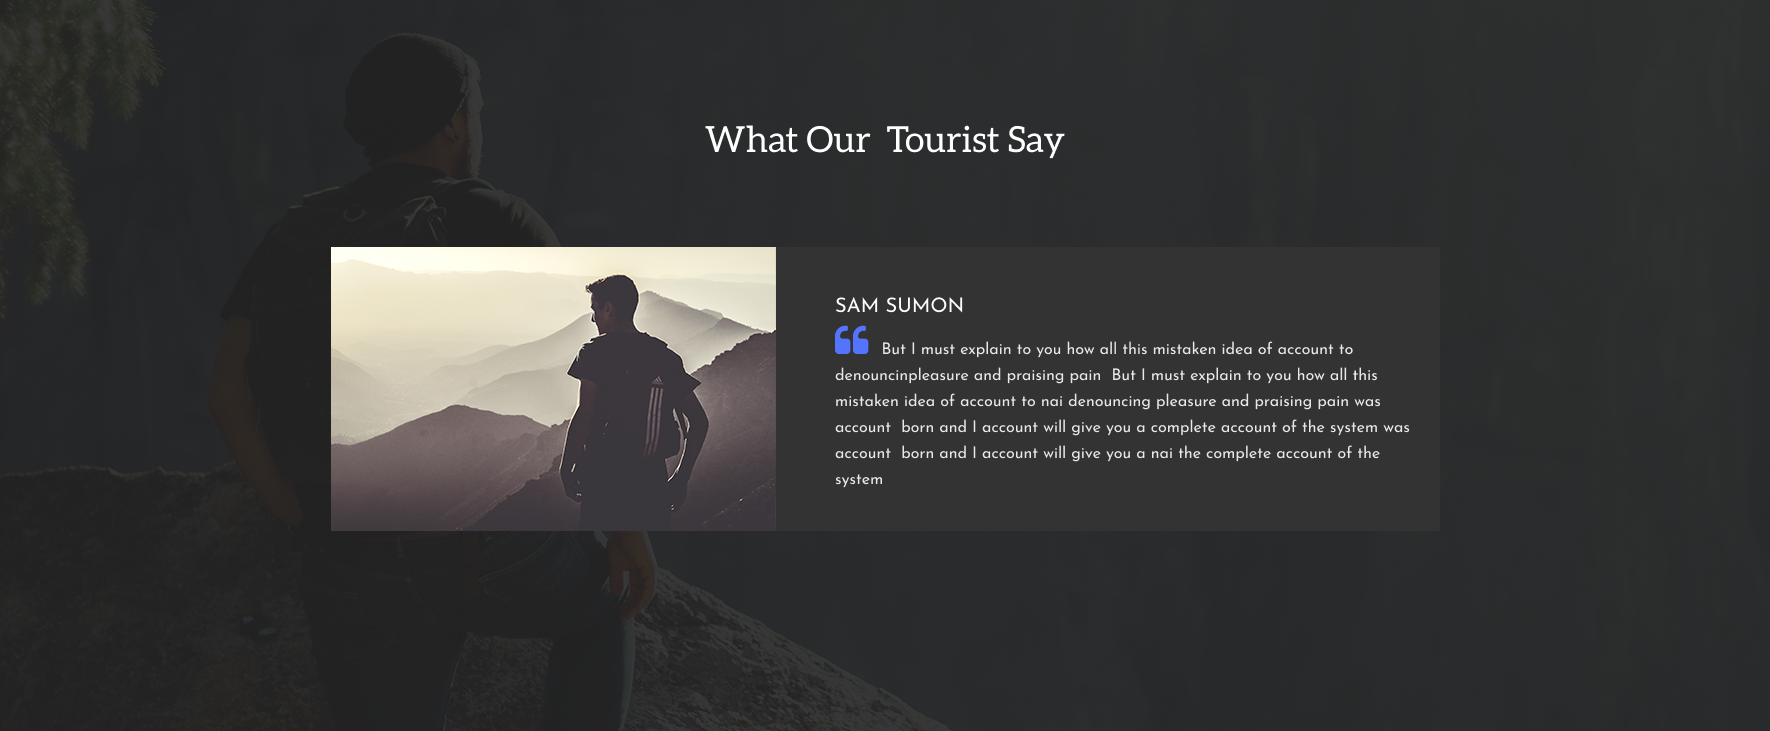
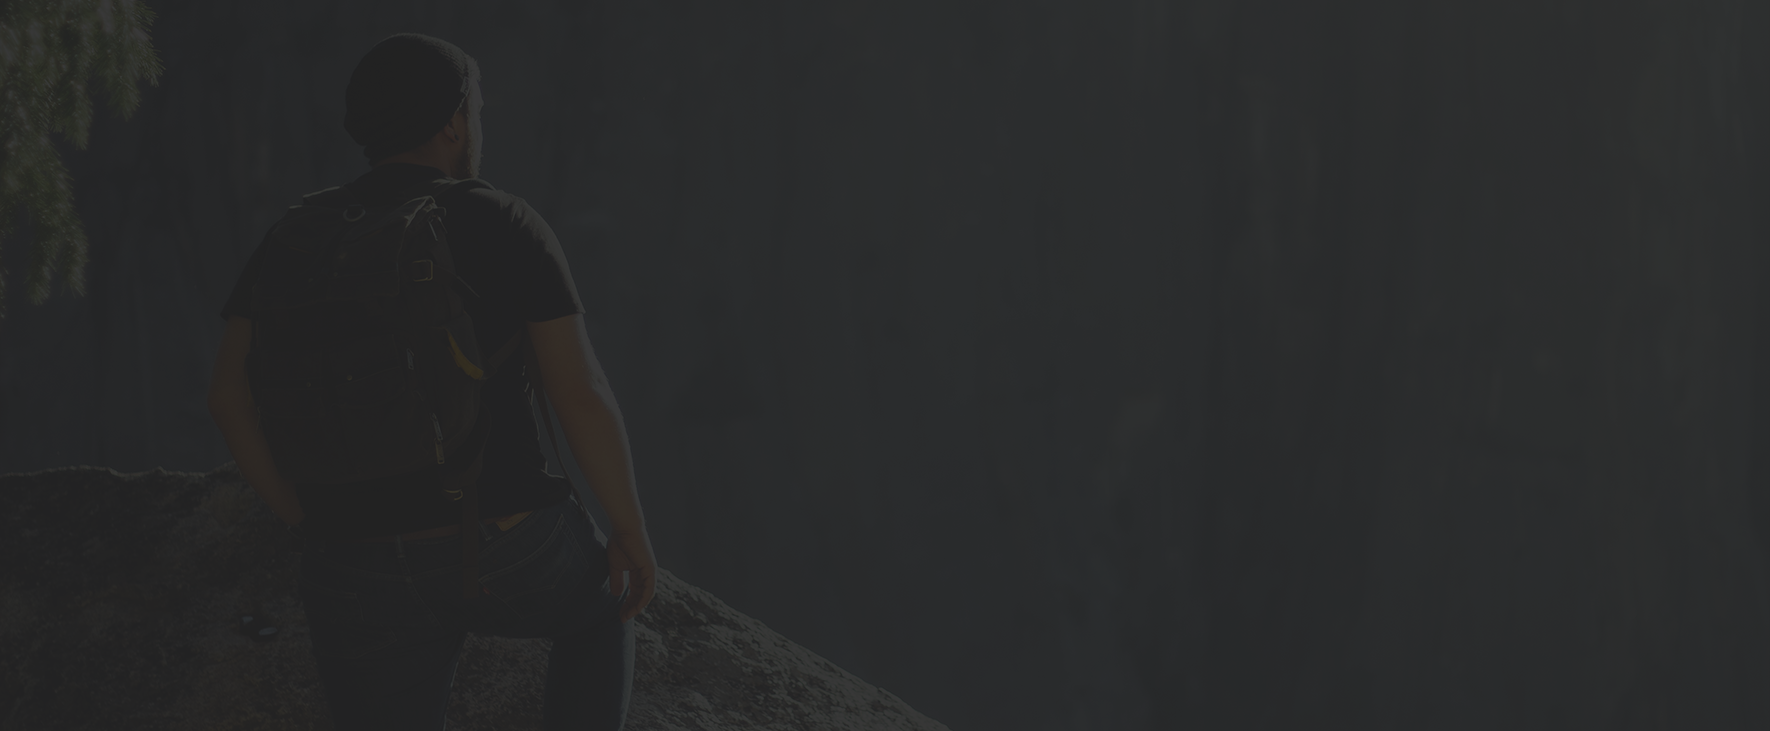
Add the Testimonial section and make it responsive

Changed region(s): [[0.1864, 0.3311, 0.8079, 0.7524], [0.404, 0.1806, 0.6215, 0.2107]]

diff --git a/index.html b/index.html
@@ -34,7 +34,9 @@
     >
       <div>
         <h1 class="fnt-s-4 fw-bold text-uppercase">Bhromaon</h1>
-        <h3 class="fnt-s-2 m-top-1">Safe Travel Anywhere</h3>
+        <h3 class="fnt-s-2 m-top-1 header-second-heading">
+          Safe Travel Anywhere
+        </h3>
         <div class="search-wrapper m-top-3 d-flex justify-content-center">
           <input id="search-field" class="search-field" type="text" />
           <label for="search-field" class="d-none"></label>
@@ -57,7 +59,6 @@
           class="scroll-down-icon d-block fnt-s-1 m-top-1"
         />
       </div>
-
       <nav class="navbar position-sticky">
         <ul class="d-flex justify-content-evenly align-items-center w-100">
           <li class="text-uppercase fw-bold fnt-s-3">Bhromaon</li>
@@ -172,6 +173,35 @@
           >
             Book now
           </button>
+        </div>
+      </section>
+      <section id="testimony-section" class="testimony-section section-style">
+        <h2 class="fnt-s-4 secondaryFontFamily text-center">
+          What Our Tourist Say
+        </h2>
+        <div
+          class="testimonial-wrapper d-flex justify-content-center align-items-center"
+        >
+          <img
+            src="./images/img/testimonial-content-img.png"
+            alt="A man in the mountains"
+            class="testimony-img"
+          />
+          <div class="testimonial-description-wrapper">
+            <h3 class="text-uppercase fnt-s-2">Sam Sumon</h3>
+            <p class="lh-base">
+              <i
+                class="fa-solid fa-quote-left fnt-s-4 me-2"
+                style="color: #5474fd"
+              ></i>
+              But I must explain to you how all this mistaken idea of account to
+              denouncinpleasure and praising pain But I must explain to you how
+              all this mistaken idea of account to nai denouncing pleasure and
+              praising pain was account born and I account will give you a
+              complete account of the system was account born and I account will
+              give you a nai the complete account of the system
+            </p>
+          </div>
         </div>
       </section>
     </main>

diff --git a/css/main.css b/css/main.css
@@ -4,6 +4,10 @@
   padding-top: 190px;
 }
 
+.header-second-heading {
+  letter-spacing: 5px;
+}
+
 .search-field {
   height: 64px;
   width: 50%;
@@ -129,6 +133,26 @@
   height: max-content;
 }
 
+/*TESTIMONY*/
+.testimony-section {
+  background-image: url(../images/img/testimonial.png);
+  padding: 100px 20px 0 20px;
+}
+
+.testimony-img {
+  display: none;
+}
+
+.testimonial-wrapper {
+  margin-top: 20px;
+}
+
+.testimonial-description-wrapper {
+  padding: 20px;
+  background-color: #232323;
+  max-width: 670px;
+}
+
 @media only screen and (min-width: 650px) {
   /*FIRST & SECOND PLACE SPAIN*/
   .first-place-section {
@@ -136,6 +160,10 @@
   }
   .second-place-section {
     padding-right: 50px;
+  }
+  /*TESTIMONY*/
+  .testimonial-description-wrapper {
+    padding: 50px 25px 40px 60px;
   }
 }
 @media only screen and (min-width: 800px) {
@@ -196,10 +224,27 @@
   .second-place-section {
     padding-right: 150px;
   }
+  .testimonial-wrapper {
+    margin-top: 90px;
+  }
+}
+@media only screen and (min-width: 1000px) {
+  .testimony-img {
+    display: inline;
+    max-width: 455px;
+  }
+  .testimonial-description-wrapper {
+    height: 284px;
+  }
 }
 @media only screen and (min-width: 1500px) {
+  .home-header {
+    background-image: url(../images/img/hero.png);
+    padding-top: 290px;
+  }
   .why-choose-us-section {
-    padding: 0 330px;
+    padding: 0 340px;
+    gap: 100px;
   }
   .how-it-works-section {
     padding-top: 170px;
@@ -207,7 +252,6 @@
   .how-it-works-lines {
     bottom: 55%;
   }
-  /*FIRST & SECOND PLACE SPAIN*/
   .first-place-section {
     padding-left: 300px;
   }

diff --git a/css/main.scss b/css/main.scss
@@ -18,6 +18,10 @@
   padding-top: 190px;
 }
 
+.header-second-heading {
+  letter-spacing: 5px;
+}
+
 .search-field {
   height: 64px;
   width: 50%;
@@ -134,6 +138,26 @@
   height: max-content;
 }
 
+/*TESTIMONY*/
+.testimony-section {
+  background-image: url(../images/img/testimonial.png);
+  padding: 100px 20px 0 20px;
+}
+
+.testimony-img {
+  display: none;
+}
+
+.testimonial-wrapper {
+  margin-top: 20px;
+}
+
+.testimonial-description-wrapper {
+  padding: 20px;
+  background-color: variables.$secondaryBgColor;
+  max-width: 670px;
+}
+
 @media only screen and (min-width: 650px) {
   /*FIRST & SECOND PLACE SPAIN*/
   .first-place-section {
@@ -142,6 +166,11 @@
 
   .second-place-section {
     padding-right: 50px;
+  }
+
+  /*TESTIMONY*/
+  .testimonial-description-wrapper {
+    padding: 50px 25px 40px 60px;
   }
 }
 
@@ -218,11 +247,31 @@
   .second-place-section {
     padding-right: 150px;
   }
+
+  .testimonial-wrapper {
+    margin-top: 90px;
+  }
+}
+
+@media only screen and (min-width: 1000px) {
+  .testimony-img {
+    display: inline;
+    max-width: 455px;
+  }
+  .testimonial-description-wrapper {
+    height: 284px;
+  }
 }
 
 @media only screen and (min-width: 1500px) {
+  .home-header {
+    background-image: url(../images/img/hero.png);
+    padding-top: 290px;
+  }
+
   .why-choose-us-section {
-    padding: 0 330px;
+    padding: 0 340px;
+    gap: 100px;
   }
 
   .how-it-works-section {
@@ -233,7 +282,6 @@
     bottom: 55%;
   }
 
-  /*FIRST & SECOND PLACE SPAIN*/
   .first-place-section {
     padding-left: 300px;
   }
